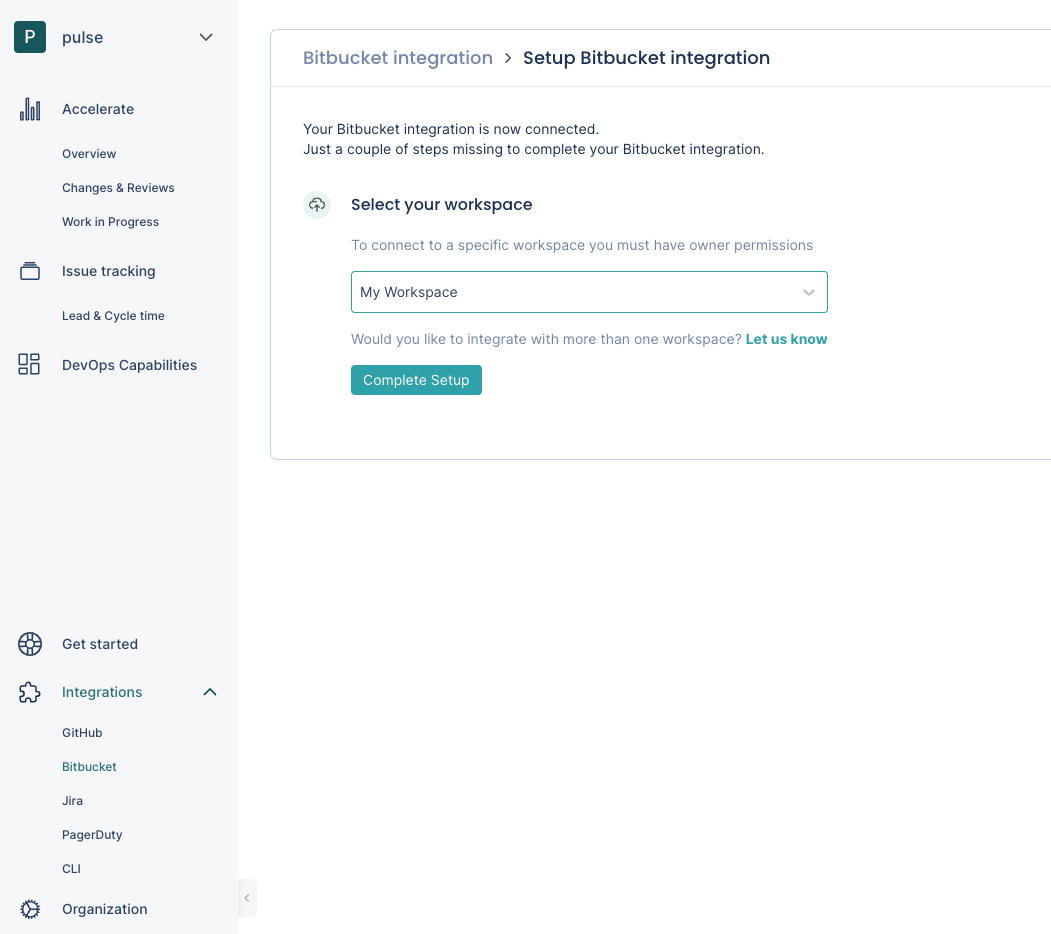
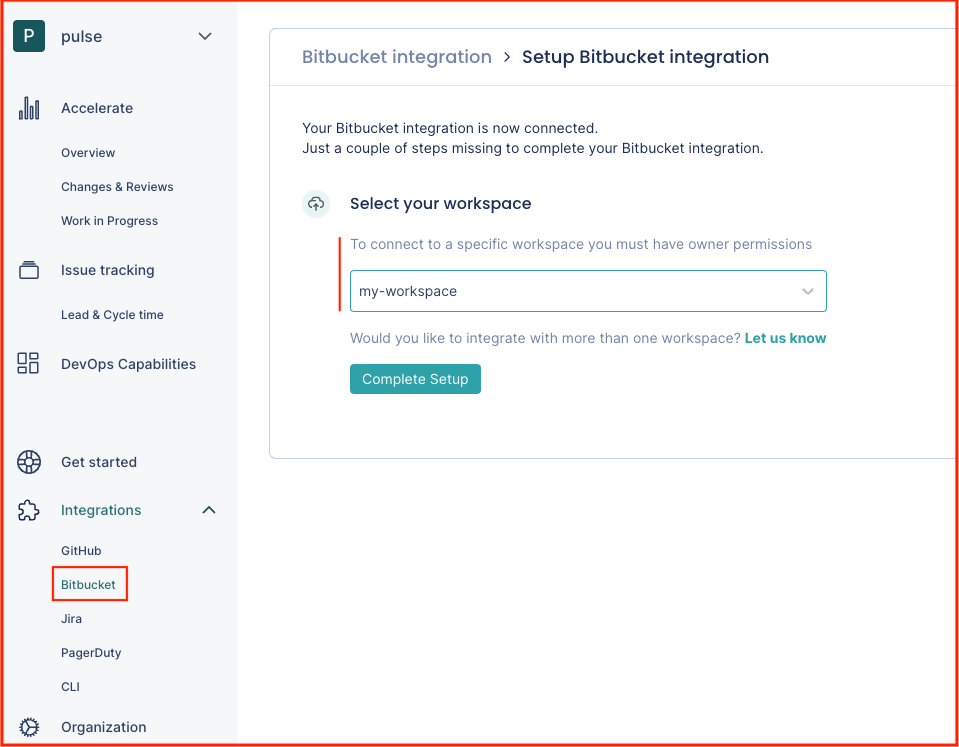
clean: Add screenshots

diff --git a/docs/one-click-integrations/bitbucket-integration.md b/docs/one-click-integrations/bitbucket-integration.md
@@ -24,20 +24,21 @@ To set up the Bitbucket integration:
 
 1.  Click **Install Bitbucket App** and follow the instructions on the Bitbucket UI to install the app on your account.
 
-    (IMAGE)
+    ![Installing the Pulse Bitbucket App](images/bb-installing.png)
 
 1.  Wait until you get a confirmation that Pulse successfully connected the integration to Bitbucket.
-    (IMAGE)
+
+    ![Pulse Bitbucket integration set up successfully](images/bb-ok.png)
 
     If there was an error please [contact support](mailto:pulsesupport@codacy.com).
 
 1.  Choose the workspace that you want to connect the integration. You will only be able to select a workspace that you are the owner.
 
-    (IMAGE)
-
-    If there was an error please [contact support](mailto:pulsesupport@codacy.com).
+    ![Choosing the Bitbucket workspace](images/bb-workspace.png)
 
 1.  Click **Complete setup**.
+
+    If there was an error please [contact support](mailto:pulsesupport@codacy.com).
 
 ## Automatic deployment detection using merged pull requests {: id="deployment-detection-merged-pr"}
 
